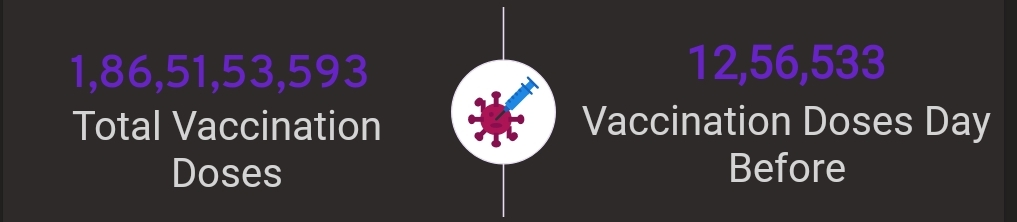
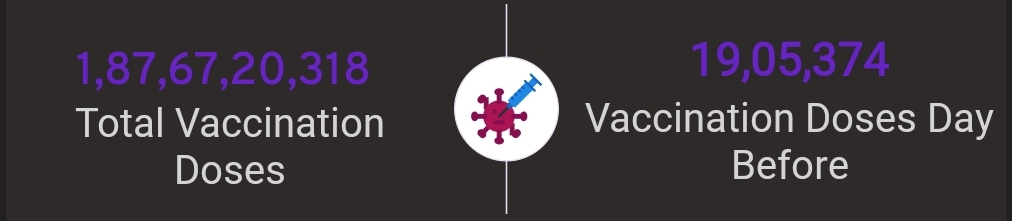
changes 11

diff --git a/index.html b/index.html
@@ -163,13 +163,13 @@
                     data-tooltip="April 21, Thursday">
                     <h6>21<br>TH</h6>
                   </a></li>
-                <li class="tab"><a href="#ifr" class="active black white-text tooltipped" data-position="bottom"
+                <li class="tab"><a href="#ifr" class="black white-text tooltipped" data-position="bottom"
                     data-tooltip="April 22, Friday">
                     <h6>22<br>FR</h6>
                   </a></li>
-                <li class="tab"><a href="#isa" class="black white-text tooltipped" data-position="bottom"
-                    data-tooltip="April 16, Saturday">
-                    <h6>16<br>SA</h6>
+                <li class="tab"><a href="#isa" class="active black white-text tooltipped" data-position="bottom"
+                    data-tooltip="April 23, Saturday">
+                    <h6>23<br>SA</h6>
                   </a></li>
                 <li class="tab"><a href="#isu" class="black white-text tooltipped" data-position="bottom"
                     data-tooltip="April 17, Sunday">
@@ -270,49 +270,49 @@
               <img src="images/ISUii.png" alt="VacDB7" class="responsive-img materialboxed">
             </div>
           </div>
-          <h6>Below Data as on April 23, 17:15 IST</h6>
+          <h6>Below Data as on April 24, 13:45 IST</h6>
           <div class="row">
             <div class="col s12 m6 l4">
               <div class="card-panel grey darken-4 white-text">
                 <h5><b>Vaccine Doses availability</b></h5>
-                <p>As on April 23, Source: PIB India</p>
-                <b>Supplied</b>: 192.43 Crores <br>
-                <b>Balance</b>: 19.91 Crores
+                <p>As on April 24, Source: PIB India</p>
+                <b>Supplied</b>: 192.51 Crores <br>
+                <b>Balance</b>: 19.75 Crores
               </div>
             </div>
             <div class="col s12 m6 l4">
               <div class="card-panel grey darken-4 white-text">
                 <h5><b>Vaccine Doses administered</b></h5>
-                <b>Dose 1</b>: 100.02 Crores <br>
-                <b>Dose 2</b>: 84.98 Crores <br>
-                <b>Prec. Dose</b>: 2.52 Crores <br>
-                <b>Total</b>: 187.53 Crores
+                <b>Dose 1</b>: 100.03 Crores <br>
+                <b>Dose 2</b>: 85.02 Crores <br>
+                <b>Prec. Dose</b>: 2.53 Crores <br>
+                <b>Total</b>: 187.59 Crores
               </div>
             </div>
             <div class="col s12 m6 l4">
               <div class="card-panel grey darken-4 white-text">
                 <h5><b>Registered for Vaccine</b></h5>
-                <b>Age 12 to 14</b>: 2.71 Crores <br>
-                <b>Age 15 to 17</b>: 5.90 Crores <br>
+                <b>Age 12 to 14</b>: 2.72 Crores <br>
+                <b>Age 15 to 17</b>: 5.91 Crores <br>
                 <b>Age 18 to 44</b>: 63.00 Crores <br>
                 <b>Age 45+</b>: 36.56 Crores <br>
-                <b>Total</b>: 108.19 Crores
+                <b>Total</b>: 108.20 Crores
               </div>
             </div>
             <div class="col s12 m6 l4">
               <div class="card-panel grey darken-4 white-text">
                 <h5><b>Vaccination by Gender</b></h5>
-                <b>Male</b>: 94.13 Crores <br>
-                <b>Female</b>: 90.40 Crores <br>
+                <b>Male</b>: 94.16 Crores <br>
+                <b>Female</b>: 90.43 Crores <br>
                 <b>Others</b>: 4.45 Lakhs
               </div>
             </div>
             <div class="col s12 m6 l4">
               <div class="card-panel grey darken-4 white-text">
                 <h5><b>Vaccination by Vaccine Name</b></h5>
-                <b>CoviShield</b>: 152.67 Crores <br>
-                <b>Covaxin</b>: 31.38 Crores <br>
-                <b>Corbevax</b>: 2.93 Crores <br>
+                <b>CoviShield</b>: 152.70 Crores <br>
+                <b>Covaxin</b>: 31.39 Crores <br>
+                <b>Corbevax</b>: 2.95 Crores <br>
                 <b>Sputnik V</b>: 12.23 Lakhs <br>
                 <b>Novavax</b>: -
                 <b>Zycov-D</b>: -
@@ -321,11 +321,11 @@
             <div class="col s12 m6 l4">
               <div class="card-panel grey darken-4 white-text">
                 <h5><b>Vaccination by Age</b></h5>
-                <b>Age 12 to 14</b>: 2.93 Crores <br>
-                <b>Age 15 to 17</b>: 9.94 Crores <br>
-                <b>Age 18 to 44</b>: 107.66 Crores <br>
+                <b>Age 12 to 14</b>: 2.95 Crores <br>
+                <b>Age 15 to 17</b>: 9.95 Crores <br>
+                <b>Age 18 to 44</b>: 107.68 Crores <br>
                 <b>Age 45 to 60</b>: 40.59 Crores <br>
-                <b>Age 60+</b>: 25.94 Crores
+                <b>Age 60+</b>: 25.95 Crores
               </div>
             </div>
           </div>
@@ -350,13 +350,13 @@
                     data-tooltip="April 21, Thursday">
                     <h6>21<br>TH</h6>
                   </a></li>
-                <li class="tab"><a href="#sfr" class="active black white-text tooltipped" data-position="bottom"
+                <li class="tab"><a href="#sfr" class="black white-text tooltipped" data-position="bottom"
                     data-tooltip="April 22, Friday">
                     <h6>22<br>FR</h6>
                   </a></li>
-                <li class="tab"><a href="#ssa" class="black white-text tooltipped" data-position="bottom"
-                    data-tooltip="April 16, Saturday">
-                    <h6>16<br>SA</h6>
+                <li class="tab"><a href="#ssa" class="active black white-text tooltipped" data-position="bottom"
+                    data-tooltip="April 23, Saturday">
+                    <h6>23<br>SA</h6>
                   </a></li>
                 <li class="tab"><a href="#ssu" class="black white-text tooltipped" data-position="bottom"
                     data-tooltip="April 17, Sunday">
@@ -604,13 +604,13 @@
                     data-tooltip="April 21, Thursday">
                     <h6>21<br>TH</h6>
                   </a></li>
-                <li class="tab"><a href="#mfr" class="active black white-text tooltipped" data-position="bottom"
+                <li class="tab"><a href="#mfr" class="black white-text tooltipped" data-position="bottom"
                     data-tooltip="April 22, Friday">
                     <h6>22<br>FR</h6>
                   </a></li>
-                <li class="tab"><a href="#msa" class="black white-text tooltipped" data-position="bottom"
-                    data-tooltip="April 16, Saturday">
-                    <h6>16<br>SA</h6>
+                <li class="tab"><a href="#msa" class="active black white-text tooltipped" data-position="bottom"
+                    data-tooltip="April 23, Saturday">
+                    <h6>23<br>SA</h6>
                   </a></li>
                 <li class="tab"><a href="#msu" class="black white-text tooltipped" data-position="bottom"
                     data-tooltip="April 17, Sunday">
@@ -876,12 +876,12 @@
                     </tr>
                     <tr>
                       <td colspan="4">
-                        <b>Total:</b> 10,58,219 <br>
-                        <b>Active:</b> 474 <br>
-                        <b>Recovered:</b> 10,38,183 <br>
+                        <b>Total:</b> 10,58,291 <br>
+                        <b>Active:</b> 503 <br>
+                        <b>Recovered:</b> 10,38,183* <br>
                         <b>Deceased:</b> 19,562 <br>
                         <b>Vaccinated:</b>2,07,77,780 <br>
-                        <b>Tested:</b> 1,68,26,035
+                        <b>Tested:</b> 1,68,35,488
                       </td>
                     </tr>
                   </tbody>
@@ -983,13 +983,13 @@
             </div>
           </div>
           <blockquote style="font-size: x-large; border-left-color: #1e88e5;">Mumbai Dashboard</blockquote>
-          <h6>Source: Official MCGM Website<br>As on April 22 (April 20)</h6>
+          <h6>Source: Official MCGM Website<br>As on April 23 (April 22)</h6>
           <div class="row">
             <div class="col s12 m12 l6">
-              <img src="images/M22.png" alt="Mum" width="100%" class="responsive-img materialboxed">
+              <img src="images/M23.png" alt="Mum" width="100%" class="responsive-img materialboxed">
             </div>
             <div class="col s12 m12 l6">
-              <img src="images/M20.png" alt="Mum" width="100%" class="responsive-img materialboxed">
+              <img src="images/M22.png" alt="Mum" width="100%" class="responsive-img materialboxed">
             </div>
           </div>
           <blockquote style="font-size: x-large; border-left-color: #1e88e5;">Palghar Dashboard</blockquote>
